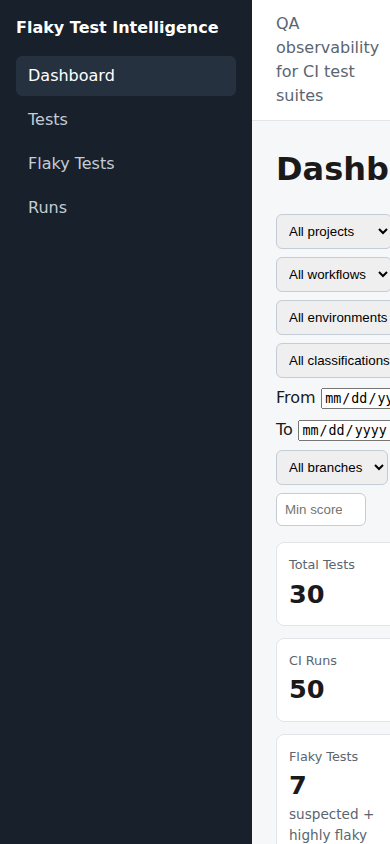
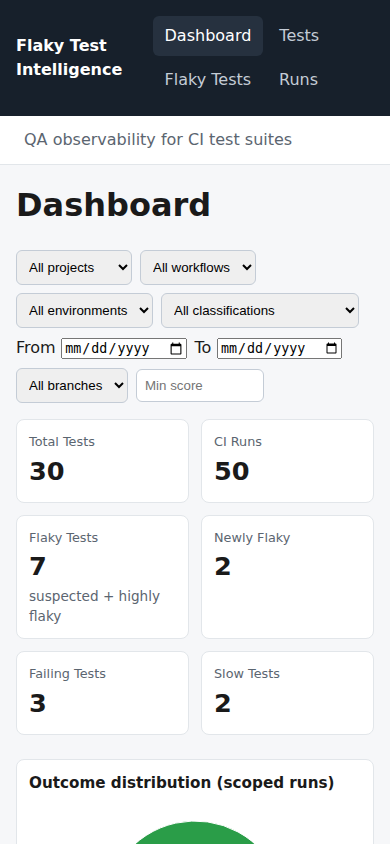
fix(qa): complete phase 16 audit with responsive remediation
Phase 16 - Final QA Audit: NOTHING CRITICAL REMAINING

Functional: upload/ingestion/storage/analysis/classification/API/
dashboard/filters/history re-verified live (incl. a 202-char
unbroken-name upload round trip; probe data removed afterwards,
counts restored to 50 runs x 30 tests).
Negative: malformed/empty/wrong-type/missing-project/invalid
ID/filters/pagination all return correct envelopes live (400/404/422).
UI: desktop verified by screenshots; small-viewport shot EXPOSED a
real defect (fixed 220px sidebar crushed content at 390px) -> added
a stacking media query plus anywhere-wrapping for long identifiers;
re-shot mobile dashboard clean with zero page errors.
Integrity: independent SQL cross-check -- API totals match row counts
(50/30/1452 executions exact), zero duplicate runs/keys, zero
malformed identities/statuses, run counters sum to executions.
Quality: backend 75 passed + ruff clean; frontend 35 passed +
eslint/prettier/build clean.

diff --git a/frontend/src/index.css b/frontend/src/index.css
@@ -90,6 +90,29 @@ td {
   text-align: left;
   padding: 0.6rem 0.75rem;
   border-bottom: 1px solid #e2e6ea;
+  overflow-wrap: anywhere;
+}
+
+@media (max-width: 700px) {
+  .app {
+    flex-direction: column;
+  }
+
+  .sidebar {
+    width: auto;
+    flex-direction: row;
+    align-items: center;
+    gap: 0.75rem;
+  }
+
+  .sidebar nav {
+    flex-direction: row;
+    flex-wrap: wrap;
+  }
+
+  .main {
+    padding: 1rem;
+  }
 }
 
 .kpis {
